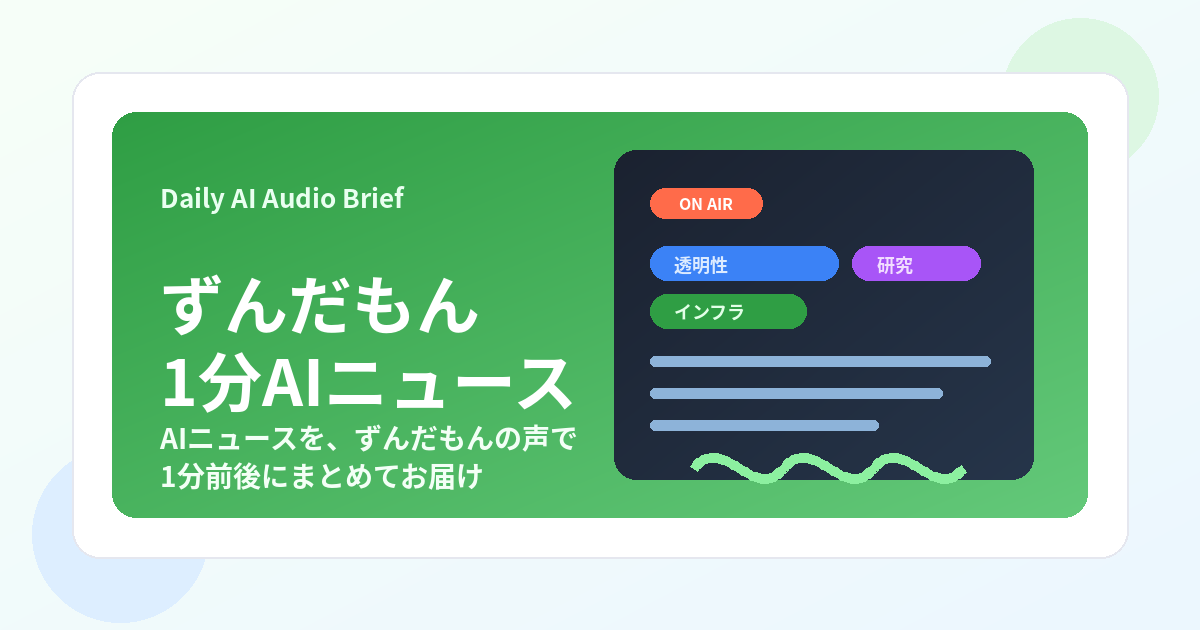
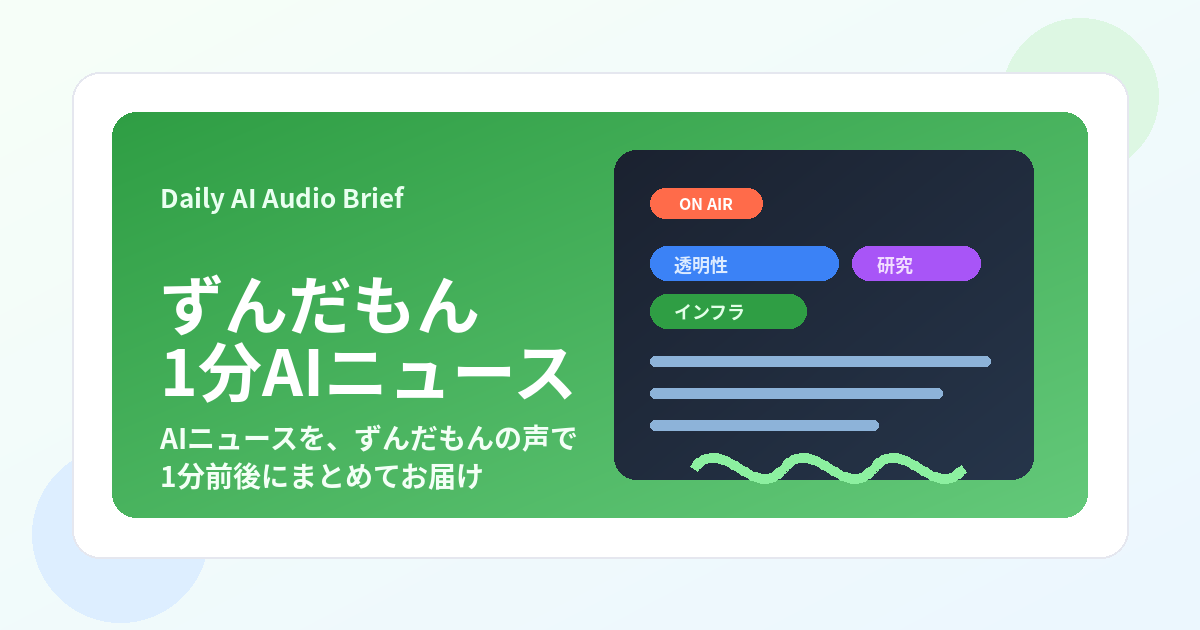
Raise top OGP subtitle

Changed region(s): [[0.1233, 0.5429, 0.4933, 0.6635]]

diff --git a/scripts/render_ogp.py b/scripts/render_ogp.py
@@ -37,7 +37,7 @@ WAVE_SEGMENTS = [
 DEFAULT_TEXT_NODES = [
     ('Daily AI Audio Brief', (160, 186), 26, True, (233, 255, 240, 255), 'la'),
     ('ずんだもん', (160, 274), 64, True, (255, 255, 255, 255), 'la'),
-    ('1分AIニュース', (160, 352), 64, True, (255, 255, 255, 255), 'la'),
+    ('1分AIニュース', (160, 342), 64, True, (255, 255, 255, 255), 'la'),
     ('AIニュースを、ずんだもんの声で', (160, 424), 28, True, (243, 255, 246, 255), 'la'),
     ('1分前後にまとめてお届け', (160, 462), 28, True, (243, 255, 246, 255), 'la'),
 ]
